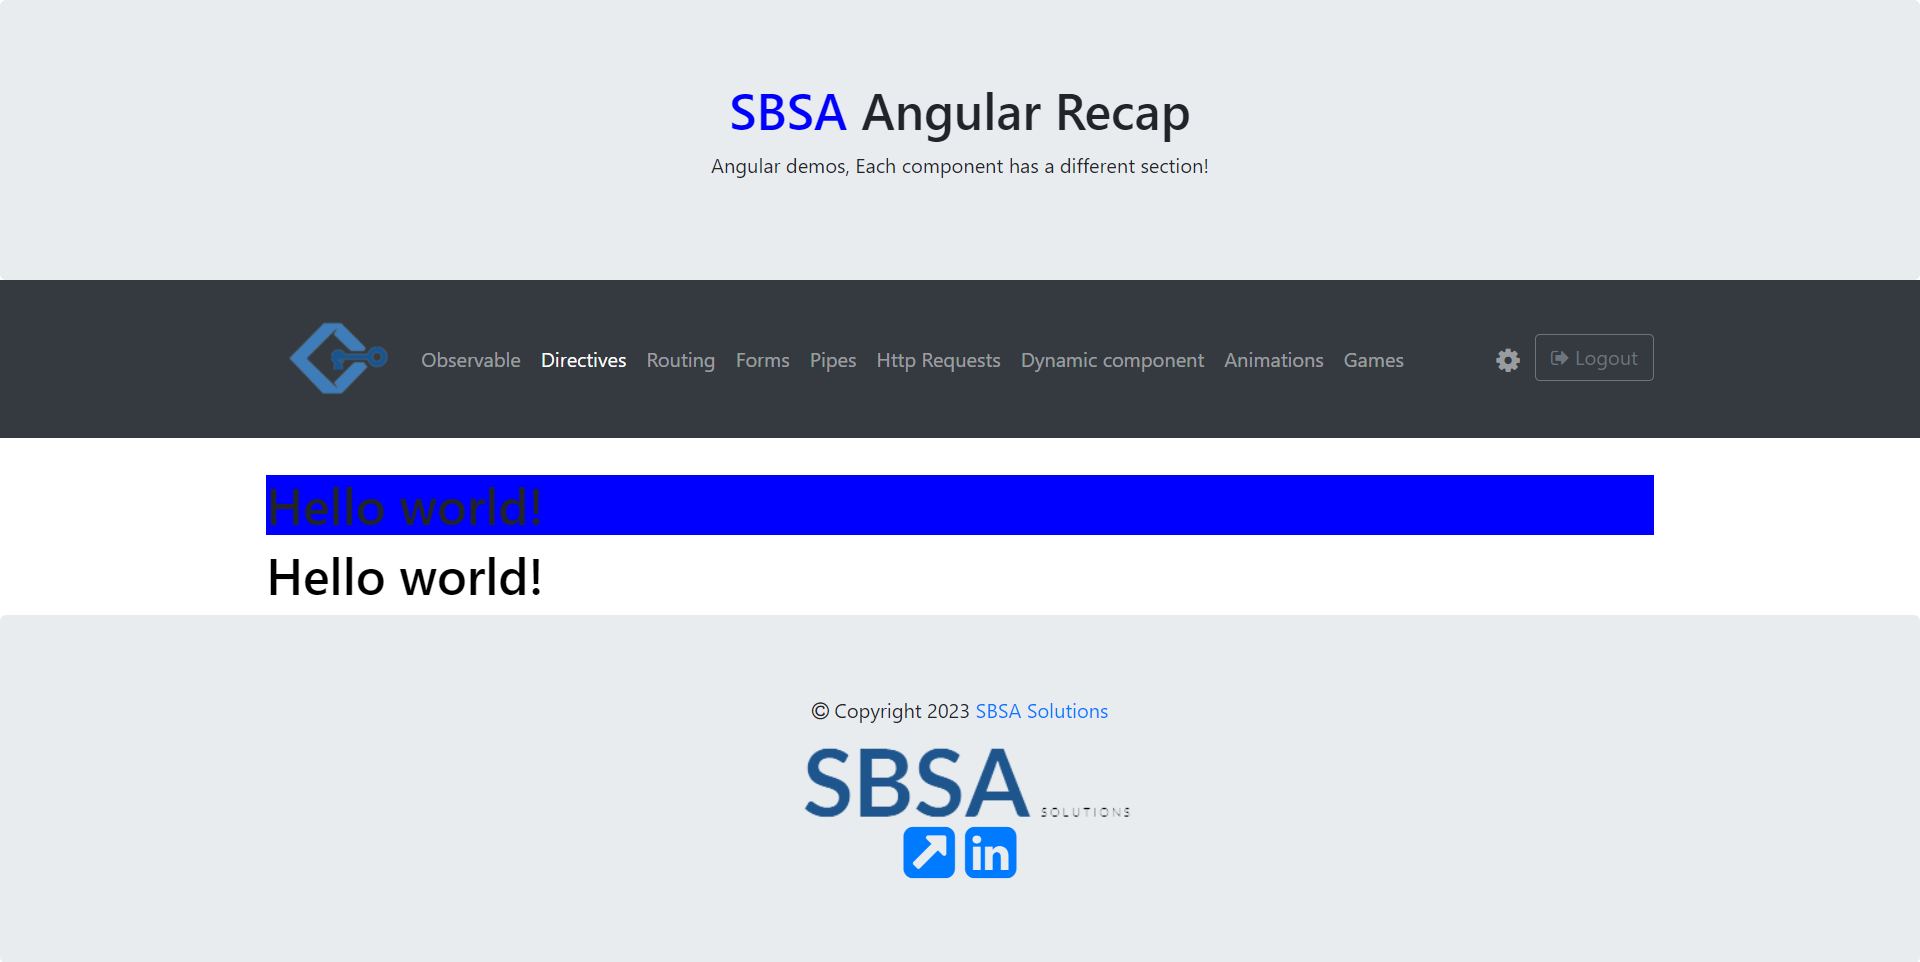
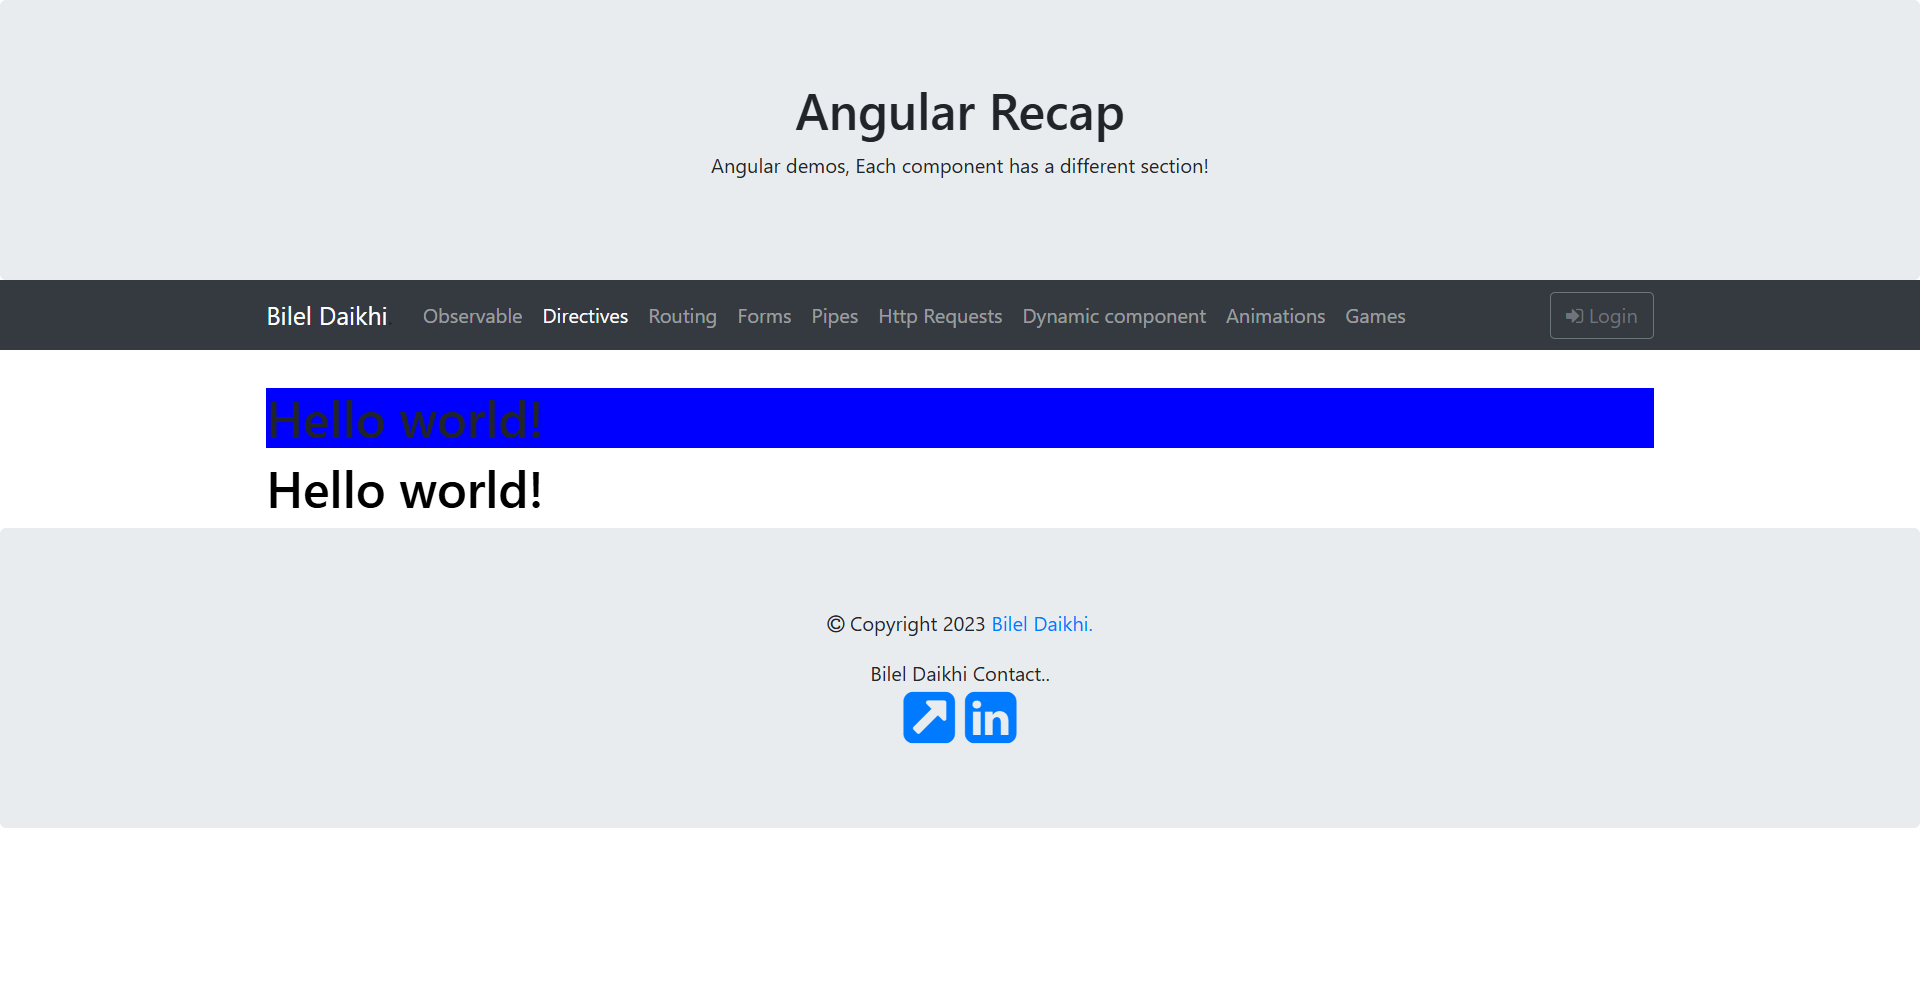
update project ressources

Changed region(s): [[0.0, 0.2807, 1.0, 0.6237], [0.4062, 0.6237, 0.5625, 0.9356], [0.375, 0.0936, 0.625, 0.1871]]

diff --git a/src/app/components/animations/home/home.component.ts b/src/app/components/animations/home/home.component.ts
@@ -1,7 +1,7 @@
 import { Component, OnInit } from '@angular/core';
 import { SlideInterface } from 'src/app/imageSlider/types/slide.interface';
 import { ProjectsService } from './projects.service';
-import { SBSAProject } from './project.model';
+import { MyProject } from './project.model';
 
 @Component({
   selector: 'app-home',
@@ -15,7 +15,7 @@ export class HomeComponent implements OnInit {
     this.projectsService.getProjetsLandingPage().subscribe({
       next: (result: any) => {
         result.map((item: any) => {
-          let newProject: SBSAProject;
+          let newProject: MyProject;
           newProject = item;
           if (item.images) {
             let imageLanding = item.images?.filter(

diff --git a/src/app/components/header/header.component.html b/src/app/components/header/header.component.html
@@ -1,5 +1,5 @@
 <div class="jumbotron text-center" style="margin-bottom: 0">
-  <h1><span style="color: blue"> SBSA </span> Angular Recap</h1>
+  <h1> Angular Recap</h1>
   <p>Angular demos, Each component has a different section!</p>
 </div>
 
@@ -10,8 +10,7 @@
       [routerLink]="['/']"
       routerLinkActive="active"
       [routerLinkActiveOptions]="{ exact: true }"
-      ><img src="./assets/icon.ico" alt="logo"
-    /></a>
+      >  Bilel Daikhi<span class="logo-dot">.</span></a>
     <button
       class="navbar-toggler"
       type="button"

diff --git a/src/app/components/header/header.component.css b/src/app/components/header/header.component.css
@@ -5,3 +5,24 @@ button:focus {
 .navbar .dropdown-menu .form-control {
     width: 200px;
 }
+
+.logo-text {
+  display: flex;
+  align-items: center;
+  justify-content: center;
+  font-size: 1.6rem;
+  font-weight: 800;
+  letter-spacing: -1px;
+  color: #0d6efd;
+  text-decoration: none;
+  font-family: 'Segoe UI', sans-serif;
+  transition: color 0.2s ease;
+}
+
+.logo-text:hover {
+  color: #084298;
+}
+
+.logo-dot {
+  color: #212529;
+}

diff --git a/src/app/components/footer/footer.component.html b/src/app/components/footer/footer.component.html
@@ -2,10 +2,10 @@
   <p>
     <i class="fa fa-copyright" aria-hidden="true"></i> Copyright 2023
     <a href="https://bilel-daikhi-portfolio.web.app/landing" target="_blank">
-      SBSA Solutions</a
+      Bilel Daikhi.</a
     >
   </p>
-  <img src="./assets/logo-text.png" alt="logo" />
+  Bilel Daikhi Contact.<span class="logo-dot">.</span>
   <br />
   <a
     href="https://bilel-daikhi-portfolio.web.app/landing"

diff --git a/src/index.html b/src/index.html
@@ -2,7 +2,7 @@
 <html lang="en">
   <head>
     <meta charset="utf-8" />
-    <title>SBSA Angular Recap</title>
+    <title>Angular Recap</title>
     <base href="/" />
     <meta name="viewport" content="width=device-width, initial-scale=1" />
     <link rel="icon" type="image/x-icon" href="favicon.ico" />

diff --git a/src/app/components/animations/home/project.model.ts b/src/app/components/animations/home/project.model.ts
@@ -1,6 +1,6 @@
 import { ProjectImage } from "./projectImage.model";
 
-export interface SBSAProject {
+export interface MyProject {
   client: string;
   description_en: string;
   description_fr: string;

diff --git a/src/app/app.component.ts b/src/app/app.component.ts
@@ -6,5 +6,5 @@ import { Component } from '@angular/core';
   styleUrls: ['./app.component.css'],
 })
 export class AppComponent {
-  title = 'SBSA Recap';
+  title = 'Angular Recap';
 }
